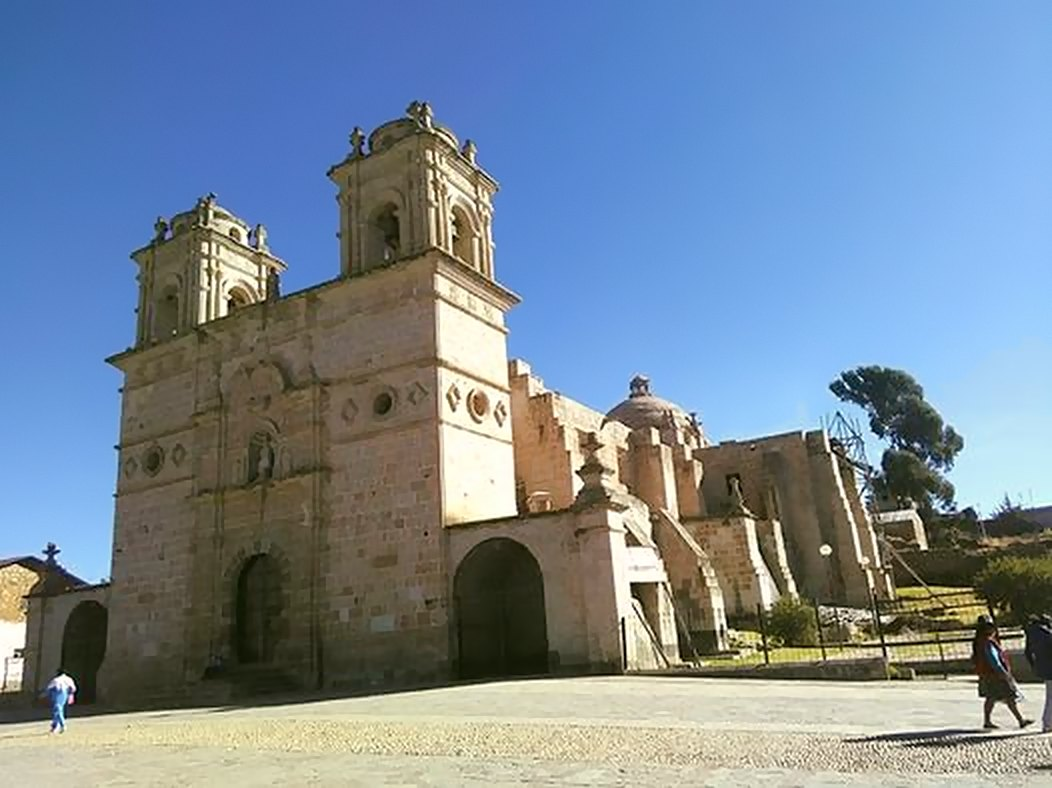
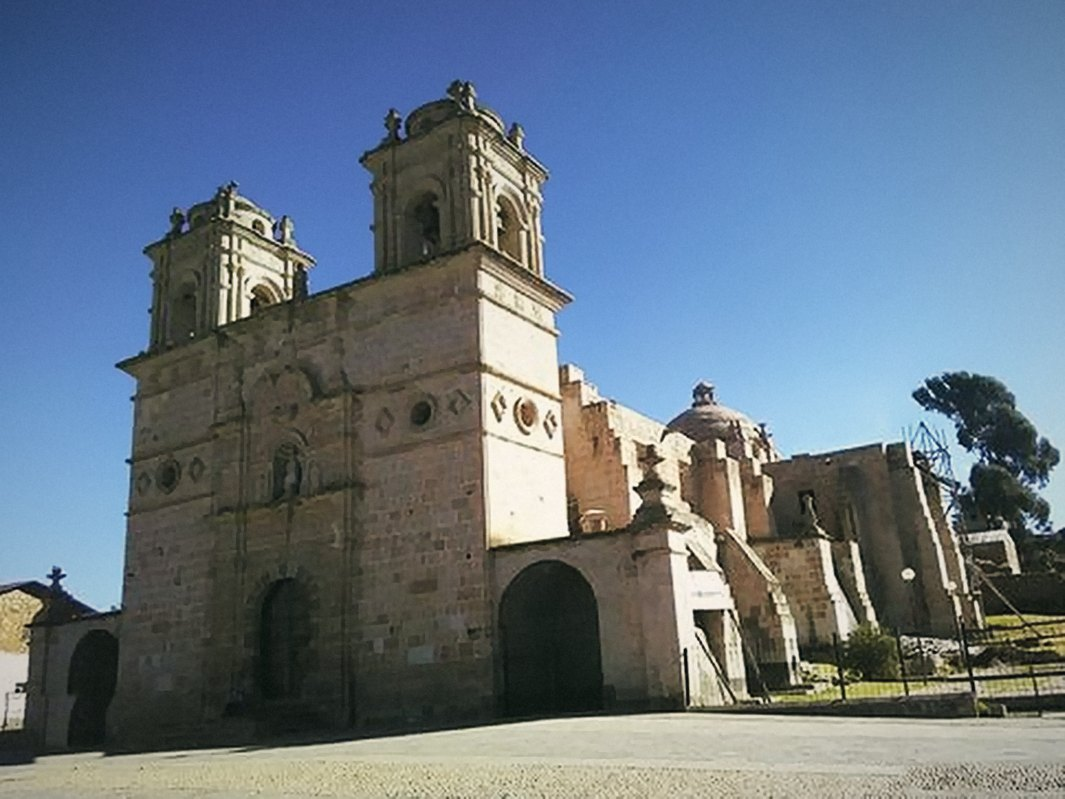
expomape: foto de Santo Tomás sin transeúntes y con etalonaje documental
Claude-Session: https://claude.ai/code/session_01VrgBypiNBYGaquSqMnMuVk

diff --git a/expomape/index.html b/expomape/index.html
@@ -235,7 +235,7 @@ const CONFIG = {
   FOTO_ELC4000_3:       "",
 
   FOTO_SANTO_TOMAS:     "",   // ✏ foto del equipo trabajando en mina Santo Tomás, ej. "img/santo-tomas.jpg"
-  FOTO_PLAZA_SANTO_TOMAS: "img/plaza-santo-tomas.webp", // ✏ foto real de la Plaza de Armas / templo de Santo Tomás, ej. "img/plaza-santo-tomas.jpg". Vacío = la sección se muestra solo con texto
+  FOTO_PLAZA_SANTO_TOMAS: "img/plaza-santo-tomas.webp?v=2", // ✏ foto real de la Plaza de Armas / templo de Santo Tomás, ej. "img/plaza-santo-tomas.jpg". Vacío = la sección se muestra solo con texto
   CATALOGO_PDF:         "",   // ✏ opcional: "img/catalogo-vid-comboy.pdf". Vacío = se pide por WhatsApp
 
   // ✏ TESTIMONIOS: reemplace el texto y los datos por testimonios REALES de sus clientes
@@ -558,7 +558,7 @@ function pintarConfianza(){
   // Foto real de la Plaza de Armas: si no hay foto, la columna se oculta y el texto ocupa todo el ancho
   const plaza = $("#fotoPlaza");
   if(CONFIG.FOTO_PLAZA_SANTO_TOMAS){
-    plaza.insertAdjacentHTML("afterbegin", `<img src="${esc(CONFIG.FOTO_PLAZA_SANTO_TOMAS)}" alt="Templo colonial de Santo Tomás en la Plaza de Armas, Chumbivilcas, Cusco" width="1052" height="788" loading="lazy">`);
+    plaza.insertAdjacentHTML("afterbegin", `<img src="${esc(CONFIG.FOTO_PLAZA_SANTO_TOMAS)}" alt="Templo colonial de Santo Tomás en la Plaza de Armas, Chumbivilcas, Cusco" width="1065" height="799" loading="lazy">`);
     plaza.querySelector("img").addEventListener("error", () => { plaza.hidden = true; plaza.parentElement.classList.add("solo"); });
   } else {
     plaza.hidden = true;
